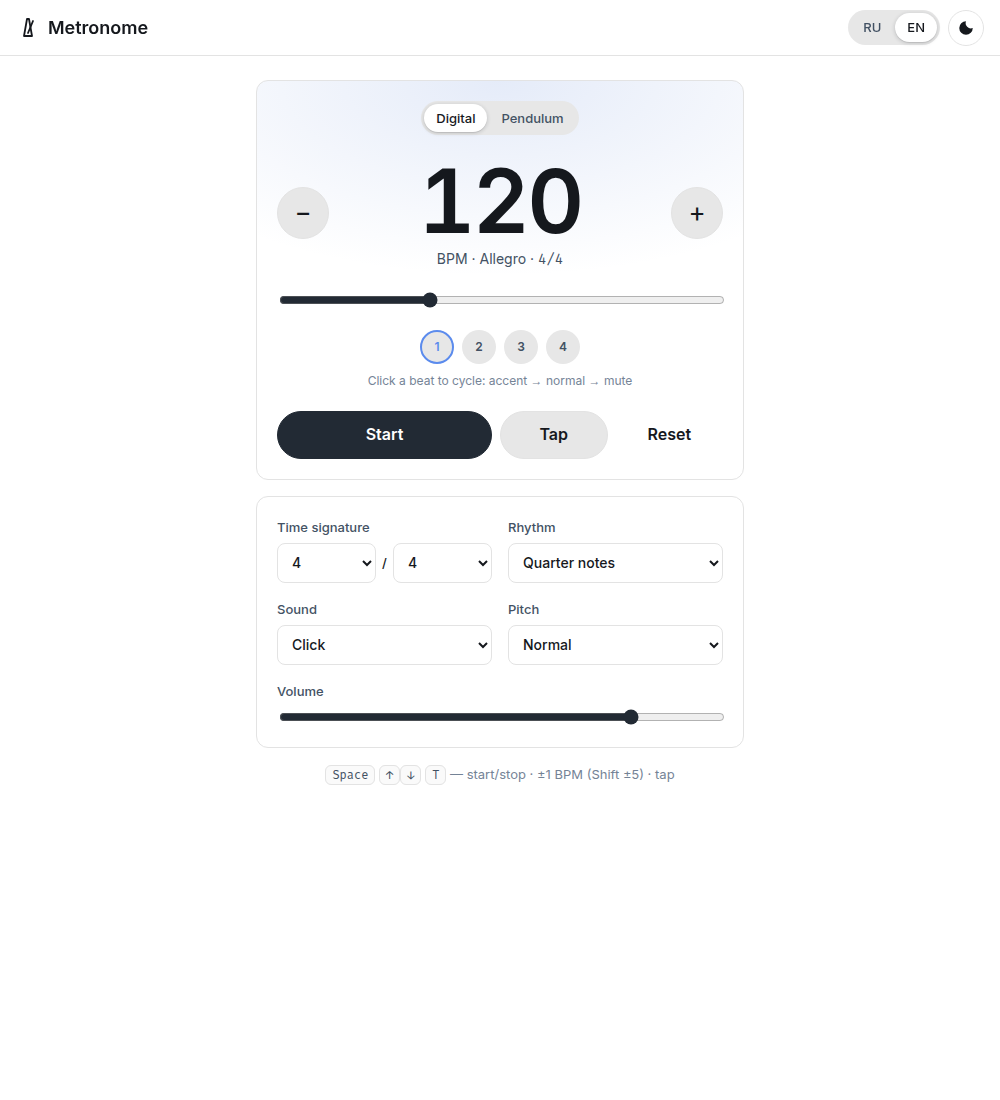
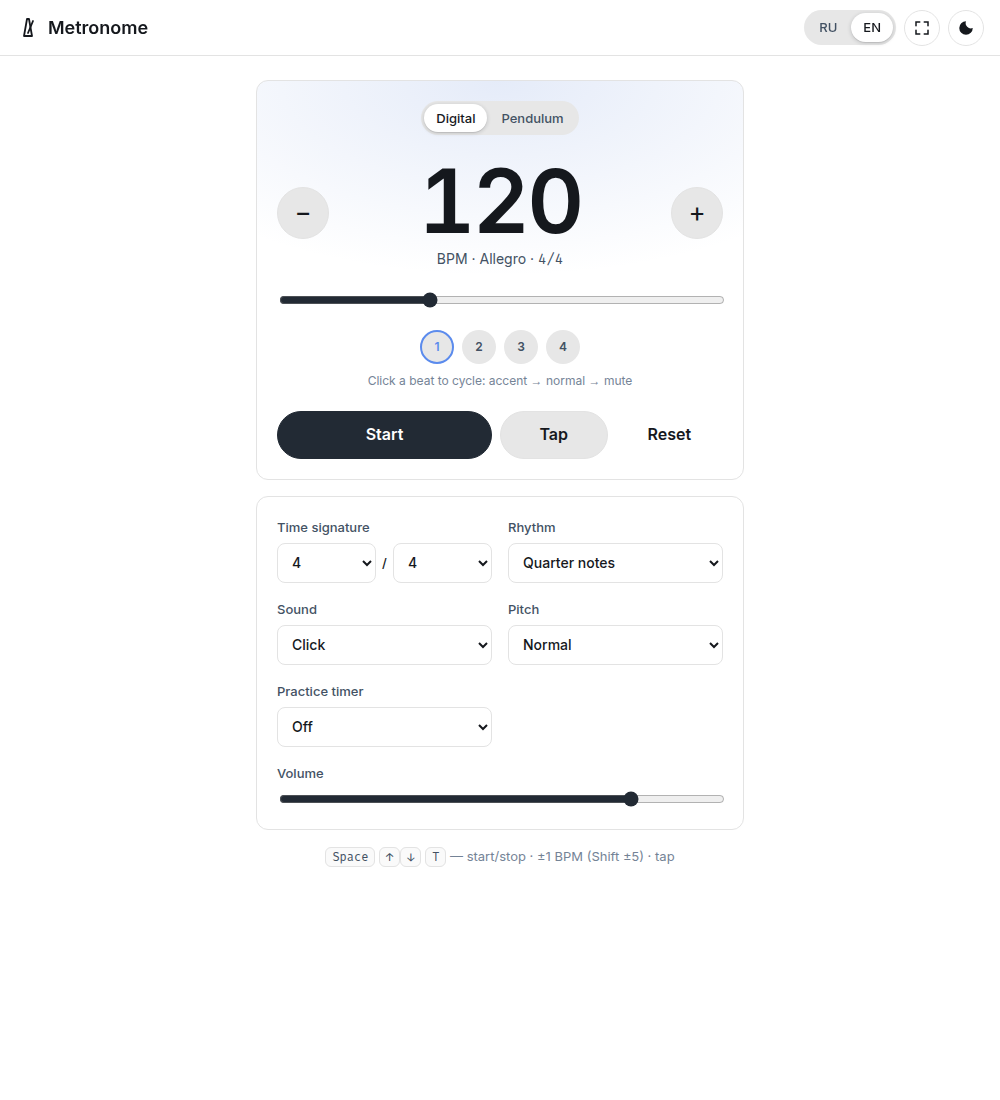
feat(site): add practice timer and fullscreen mode
- Practice timer stops the run after 1-60 minutes, with a countdown line
  while it plays; the scheduler stops placing clicks past the limit
- Fullscreen toggle in the header
- Refresh the element store previews

diff --git a/site/src/app.js b/site/src/app.js
@@ -2,7 +2,7 @@ import { Metronome } from './metronome.js';
 import { STRINGS, detectLang } from './i18n.js';
 import {
   DEFAULTS, DENOMINATORS, MAX_BEATS, MAX_BPM, MIN_BPM, PITCHES, SOUNDS, SUBDIVISIONS,
-  TapTempo, nextAccent, resizeAccents, tempoMarking,
+  TIMER_MINUTES, TapTempo, formatClock, nextAccent, resizeAccents, tempoMarking,
 } from './tempo.js';
 
 const STORAGE_KEY = 'metronome-settings';
@@ -27,7 +27,10 @@ const els = {
   sound: $('sound'),
   pitch: $('pitch'),
   volume: $('volume'),
+  timer: $('timer'),
+  remaining: $('remaining'),
   lang: $('lang'),
+  fullscreen: $('fullscreen'),
   theme: $('theme'),
   display: $('display'),
   pendulumArm: $('pendulum-arm'),
@@ -45,6 +48,10 @@ const metronome = new Metronome({
     activeDot = els.beats.children[beat];
     activeDot?.classList.add('active');
   },
+  // The practice timer ended the run
+  onStop() {
+    renderPlay();
+  },
 });
 const tapper = new TapTempo();
 const t = () => STRINGS[ui.lang];
@@ -52,8 +59,8 @@ const t = () => STRINGS[ui.lang];
 // --- persistence ---
 
 function save() {
-  const { bpm, beatsPerBar, subdivision, accents, sound, pitch, volume } = metronome;
-  const data = { bpm, beatsPerBar, subdivision, accents, sound, pitch, volume, ...ui };
+  const { bpm, beatsPerBar, subdivision, accents, sound, pitch, volume, timerMinutes } = metronome;
+  const data = { bpm, beatsPerBar, subdivision, accents, sound, pitch, volume, timerMinutes, ...ui };
   try { localStorage.setItem(STORAGE_KEY, JSON.stringify(data)); } catch { /* not persisted */ }
 }
 
@@ -79,6 +86,7 @@ function apply(s) {
   if (SOUNDS.includes(s.sound)) metronome.sound = s.sound;
   if (s.pitch in PITCHES) metronome.pitch = s.pitch;
   if (typeof s.volume === 'number') metronome.setVolume(s.volume);
+  if (TIMER_MINUTES.includes(s.timerMinutes)) metronome.timerMinutes = s.timerMinutes;
   if (DENOMINATORS.includes(s.noteValue)) ui.noteValue = s.noteValue;
   if (s.lang in STRINGS) ui.lang = s.lang;
   if (s.view === 'digital' || s.view === 'pendulum') ui.view = s.view;
@@ -111,6 +119,7 @@ function renderText() {
   fillSelect(els.subdivision, Object.keys(SUBDIVISIONS).map((k) => [k, s.subdivisions[k]]));
   fillSelect(els.sound, SOUNDS.map((k) => [k, s.sounds[k]]));
   fillSelect(els.pitch, Object.keys(PITCHES).map((k) => [k, s.pitches[k]]));
+  fillSelect(els.timer, TIMER_MINUTES.map((m) => [m, m === 0 ? s.timerOff : `${m} ${s.minutesShort}`]));
   for (const b of els.lang.children) b.setAttribute('aria-pressed', b.dataset.lang === ui.lang);
   renderPlay();
   renderBeats();
@@ -159,6 +168,13 @@ function renderPlay() {
     activeDot = null;
     els.pendulumArm.removeAttribute('transform');
   }
+  renderRemaining();
+}
+
+function renderRemaining() {
+  const left = metronome.remaining();
+  els.remaining.hidden = left === null;
+  if (left !== null) els.remaining.textContent = formatClock(left);
 }
 
 function renderView() {
@@ -176,6 +192,7 @@ function renderAll() {
   els.noteValue.value = ui.noteValue;
   els.volume.value = metronome.volume;
   renderText();
+  els.timer.value = metronome.timerMinutes;
   els.subdivision.value = metronome.subdivision;
   els.sound.value = metronome.sound;
   els.pitch.value = metronome.pitch;
@@ -183,13 +200,20 @@ function renderAll() {
   renderSignature();
   renderView();
   renderTheme();
+  renderFullscreen();
+}
+
+function renderFullscreen() {
+  els.fullscreen.setAttribute('aria-pressed', document.fullscreenElement !== null);
 }
 
 // Pendulum is at an extreme on every click and swings through the centre
 // between clicks, alternating sides each beat.
-function animatePendulum() {
-  requestAnimationFrame(animatePendulum);
-  if (ui.view !== 'pendulum' || !metronome.playing) return;
+function animateFrame() {
+  requestAnimationFrame(animateFrame);
+  if (!metronome.playing) return;
+  renderRemaining();
+  if (ui.view !== 'pendulum') return;
   const pos = metronome.position();
   if (pos === null) return;
   const angle = -PENDULUM_MAX_DEG * Math.cos(Math.PI * pos);
@@ -221,7 +245,7 @@ for (const d of DENOMINATORS) els.noteValue.add(new Option(d, d));
 
 load();
 renderAll();
-requestAnimationFrame(animatePendulum);
+requestAnimationFrame(animateFrame);
 
 els.slider.addEventListener('input', () => setBpm(els.slider.value));
 els.bpm.addEventListener('change', () => setBpm(els.bpm.value));
@@ -246,6 +270,19 @@ els.subdivision.addEventListener('change', () => { metronome.subdivision = els.s
 els.sound.addEventListener('change', () => { metronome.sound = els.sound.value; save(); });
 els.pitch.addEventListener('change', () => { metronome.pitch = els.pitch.value; save(); });
 els.volume.addEventListener('input', () => { metronome.setVolume(Number(els.volume.value)); save(); });
+els.timer.addEventListener('change', () => {
+  metronome.timerMinutes = Number(els.timer.value);
+  // A timer set mid-run counts from that run's first click, so it may already
+  // be over; the engine's own frame notices and stops.
+  renderRemaining();
+  save();
+});
+
+els.fullscreen.addEventListener('click', () => {
+  if (document.fullscreenElement) document.exitFullscreen?.();
+  else document.documentElement.requestFullscreen?.().catch(() => { /* refused */ });
+});
+document.addEventListener('fullscreenchange', renderFullscreen);
 
 els.lang.addEventListener('click', (e) => {
   const lang = e.target.closest('[data-lang]')?.dataset.lang;

diff --git a/site/src/metronome.js b/site/src/metronome.js
@@ -41,8 +41,9 @@ function createTicker(onTick) {
 }
 
 export class Metronome {
-  constructor({ onTick } = {}) {
+  constructor({ onTick, onStop } = {}) {
     this.onTick = onTick; // (beatIndex, subIndex) at the moment the click is heard
+    this.onStop = onStop; // called when the practice timer ends a run
     this.bpm = DEFAULTS.bpm;
     this.beatsPerBar = DEFAULTS.beatsPerBar;
     this.subdivision = DEFAULTS.subdivision;
@@ -50,7 +51,9 @@ export class Metronome {
     this.sound = DEFAULTS.sound;
     this.pitch = DEFAULTS.pitch;
     this.volume = DEFAULTS.volume;
+    this.timerMinutes = DEFAULTS.timerMinutes;
     this.playing = false;
+    this.startedAt = 0; // audio time of the first click of this run
 
     this.ctx = null;
     this.master = null;
@@ -63,6 +66,8 @@ export class Metronome {
     this.ticker = createTicker(() => this.schedule());
     this.frame = this.frame.bind(this);
   }
+
+  get timerSeconds() { return this.timerMinutes * 60; }
 
   setBpm(bpm) { this.bpm = clampBpm(bpm); }
 
@@ -86,6 +91,7 @@ export class Metronome {
     this.visualQueue = [];
     this.lastHeardBeat = null;
     this.nextBeatTime = this.ctx.currentTime + 0.05;
+    this.startedAt = this.nextBeatTime; // so the timer covers the full run
     this.schedule();
     this.ticker.start(LOOKAHEAD_MS);
     requestAnimationFrame(this.frame);
@@ -117,7 +123,11 @@ export class Metronome {
   schedule() {
     if (!this.playing) return;
     const horizon = this.ctx.currentTime + SCHEDULE_AHEAD_S;
+    const until = this.timerSeconds ? this.startedAt + this.timerSeconds : Infinity;
     while (this.nextBeatTime < horizon) {
+      // Don't schedule past the practice timer; frame() stops the run once the
+      // clicks already scheduled have been heard.
+      if (this.nextBeatTime > until) break;
       const beatDur = 60 / this.bpm;
       const onsets = SUBDIVISIONS[this.subdivision] ?? SUBDIVISIONS.quarter;
       const beat = this.beat % this.beatsPerBar;
@@ -190,10 +200,21 @@ export class Metronome {
     return count + Math.min(1, (this.ctx.currentTime - time) / beatDur);
   }
 
+  // Seconds left of the practice timer, or null when no timer is set.
+  remaining() {
+    if (!this.timerSeconds || !this.playing) return null;
+    return Math.max(0, this.startedAt + this.timerSeconds - this.ctx.currentTime);
+  }
+
   // Fires onTick in sync with what is heard, not when it was scheduled.
   frame() {
     if (!this.playing) return;
     const now = this.ctx.currentTime;
+    if (this.timerSeconds && now >= this.startedAt + this.timerSeconds) {
+      this.stop();
+      this.onStop?.();
+      return;
+    }
     while (this.visualQueue.length && this.visualQueue[0].time <= now) {
       const tick = this.visualQueue.shift();
       if (tick.sub === 0) this.lastHeardBeat = tick;

diff --git a/site/index.html b/site/index.html
@@ -33,6 +33,11 @@
         <button data-lang="ru">RU</button>
         <button data-lang="en">EN</button>
       </div>
+      <button class="icon-btn" id="fullscreen" data-i18n-aria="fullscreen" aria-label="Fullscreen">
+        <svg viewBox="0 0 24 24" aria-hidden="true" fill="none" stroke="currentColor" stroke-width="2" stroke-linecap="round">
+          <path d="M4 9V4h5M20 15v5h-5M20 9V4h-5M4 15v5h5"/>
+        </svg>
+      </button>
       <button class="icon-btn" id="theme" data-i18n-aria="theme" aria-label="Toggle theme">
         <svg viewBox="0 0 24 24" aria-hidden="true"><path d="M12 3a9 9 0 1 0 9 9 7 7 0 0 1-9-9z" fill="currentColor"/></svg>
       </button>
@@ -71,6 +76,7 @@
 
       <div id="beats" class="beats"></div>
       <p class="beats-hint" data-i18n="beatsHint"></p>
+      <p class="remaining" id="remaining" role="timer" hidden>0:00</p>
 
       <div class="actions">
         <button id="play" class="btn btn--primary btn--lg" data-i18n="start">Start</button>
@@ -95,6 +101,9 @@
       </label>
       <label><span data-i18n="pitch">Pitch</span>
         <select id="pitch"></select>
+      </label>
+      <label><span data-i18n="timer">Practice timer</span>
+        <select id="timer"></select>
       </label>
       <label class="wide"><span data-i18n="volume">Volume</span>
         <input type="range" id="volume" min="0" max="1" step="0.05" value="0.8">

diff --git a/test/tempo.test.js b/test/tempo.test.js
@@ -1,7 +1,8 @@
 import { test } from 'node:test';
 import assert from 'node:assert/strict';
 import {
-  MAX_BPM, MIN_BPM, SUBDIVISIONS, TapTempo, clampBpm, nextAccent, resizeAccents, tempoMarking,
+  MAX_BPM, MIN_BPM, SUBDIVISIONS, TIMER_MINUTES, TapTempo, clampBpm, formatClock, nextAccent,
+  resizeAccents, tempoMarking,
 } from '../site/src/tempo.js';
 
 test('clampBpm rounds and clamps to the supported range', () => {
@@ -61,4 +62,20 @@ test('TapTempo only keeps the most recent taps', () => {
   [0, 1000, 2000].forEach((ms) => tapper.tap(ms)); // 60 BPM
   tapper.tap(2500);
   assert.equal(tapper.tap(3000), 120); // window is now 2000, 2500, 3000
+});
+
+test('formatClock rounds up to whole seconds', () => {
+  assert.equal(formatClock(0), '0:00');
+  assert.equal(formatClock(0.2), '0:01');
+  assert.equal(formatClock(59), '0:59');
+  assert.equal(formatClock(60), '1:00');
+  assert.equal(formatClock(605), '10:05');
+  assert.equal(formatClock(-5), '0:00');
+});
+
+test('the practice timer offers "off" plus ascending durations', () => {
+  assert.equal(TIMER_MINUTES[0], 0);
+  for (let i = 1; i < TIMER_MINUTES.length; i++) {
+    assert.ok(TIMER_MINUTES[i] > TIMER_MINUTES[i - 1]);
+  }
 });

diff --git a/site/src/tempo.js b/site/src/tempo.js
@@ -28,6 +28,9 @@ export const SOUNDS = ['click', 'beep', 'wood', 'drum', 'tick', 'cowbell', 'hiha
 
 export const PITCHES = { veryLow: 0.5, low: 0.75, normal: 1, high: 1.33, veryHigh: 2 };
 
+// Practice timer: how long a run lasts before it stops itself. 0 means off.
+export const TIMER_MINUTES = [0, 1, 2, 3, 5, 10, 15, 20, 30, 45, 60];
+
 export const DEFAULTS = Object.freeze({
   bpm: DEFAULT_BPM,
   beatsPerBar: 4,
@@ -36,7 +39,14 @@ export const DEFAULTS = Object.freeze({
   sound: 'click',
   pitch: 'normal',
   volume: 0.8,
+  timerMinutes: 0,
 });
+
+// Seconds as m:ss, rounded up so a running countdown only shows 0:00 at the end.
+export function formatClock(seconds) {
+  const s = Math.max(0, Math.ceil(seconds));
+  return `${Math.floor(s / 60)}:${String(s % 60).padStart(2, '0')}`;
+}
 
 export function clampBpm(value) {
   const n = Math.round(Number(value));

diff --git a/site/src/i18n.js b/site/src/i18n.js
@@ -16,6 +16,10 @@ export const STRINGS = {
     sound: 'Sound',
     pitch: 'Pitch',
     volume: 'Volume',
+    timer: 'Practice timer',
+    timerOff: 'Off',
+    minutesShort: 'min',
+    fullscreen: 'Fullscreen',
     display: 'Display',
     digital: 'Digital',
     pendulum: 'Pendulum',
@@ -58,6 +62,10 @@ export const STRINGS = {
     sound: 'Звук',
     pitch: 'Высота тона',
     volume: 'Громкость',
+    timer: 'Таймер занятия',
+    timerOff: 'Выкл.',
+    minutesShort: 'мин',
+    fullscreen: 'На весь экран',
     display: 'Вид',
     digital: 'Цифровой',
     pendulum: 'Маятник',

diff --git a/site/src/style.css b/site/src/style.css
@@ -264,6 +264,14 @@ input[type="range"] { width: 100%; accent-color: var(--btn-primary-bg); }
 
 .beats-hint { margin: -12px 0 0; text-align: center; font-size: 12px; color: var(--color-text-subtle); }
 
+.remaining {
+  margin: -12px 0 0;
+  text-align: center;
+  font-family: var(--font-mono);
+  font-variant-numeric: tabular-nums;
+  color: var(--color-text-muted);
+}
+
 /* --- buttons (mirrors exordos .btn) --- */
 
 .actions {

diff --git a/README.md b/README.md
@@ -1,7 +1,8 @@
 # Metronome
 
 A browser metronome built on the Web Audio API with no dependencies, published to Exordos as the
-`metronom` element. The feature set follows metronome-online.org and the styling follows exordos.com.
+`metronom` element. The feature set follows metronome-online.org and metronome-online.com, and the
+styling follows exordos.com.
 
 ## Features
 
@@ -10,7 +11,8 @@ A browser metronome built on the Web Audio API with no dependencies, published t
 - 11 rhythm patterns: eighths, triplets, sixteenths, dotted notes, mixed groupings, swing, sextuplets
 - Accent per beat: click a beat to cycle accent → normal → mute
 - 8 sounds (click, beep, wood block, drum, tick, cowbell, hi-hat, ping) and 5 pitch levels
-- Digital or animated pendulum display
+- Digital or animated pendulum display, and a fullscreen mode
+- Practice timer: stops the run after 1 to 60 minutes, with a countdown while it plays
 - Russian/English interface, light/dark theme
 - Settings are saved in the browser; **Reset** restores the defaults
 - Keyboard: `Space` start/stop, `↑`/`↓` ±1 BPM (`Shift` ±5), `T` tap
